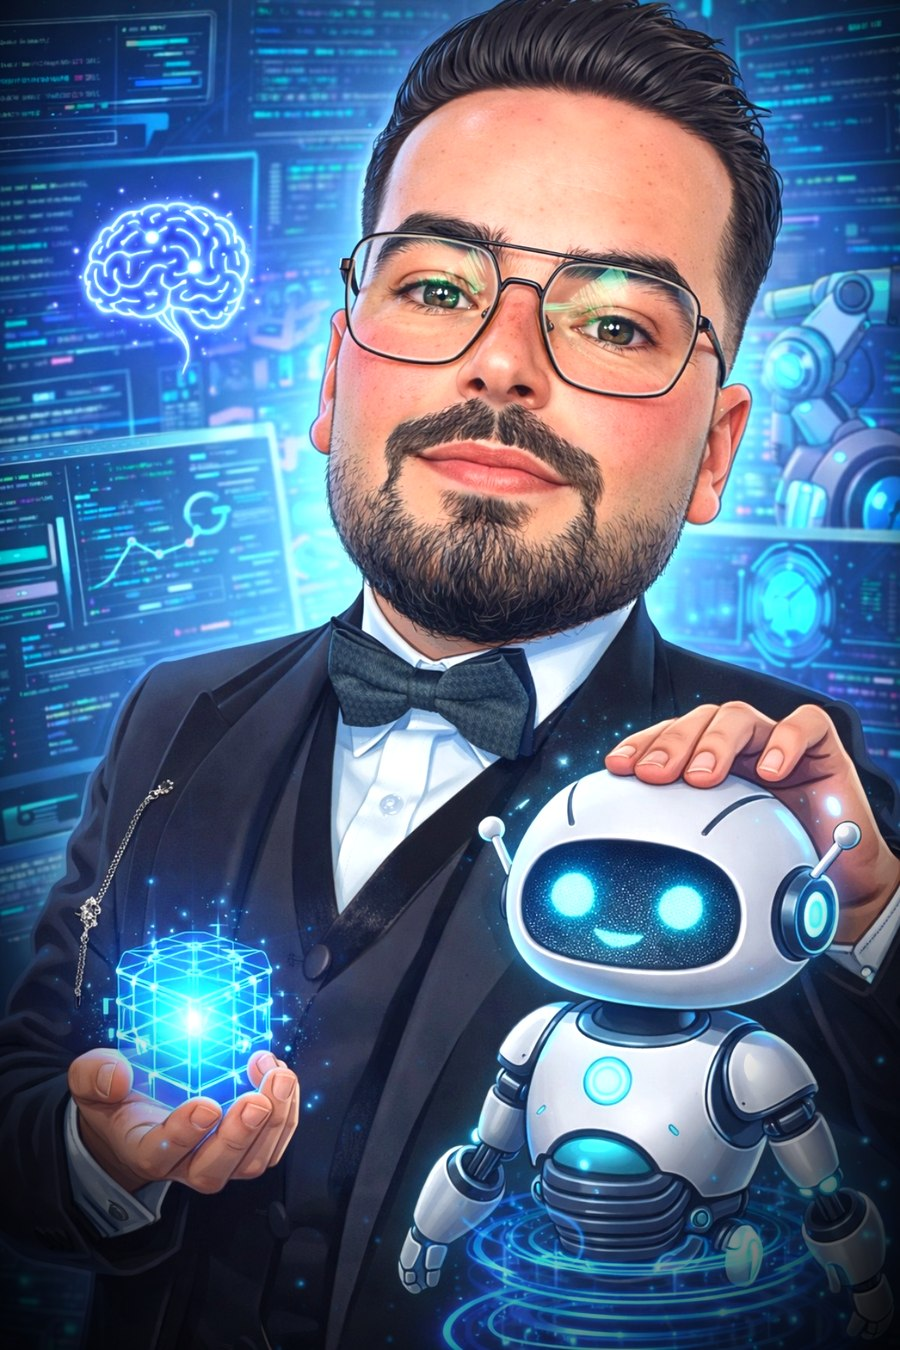
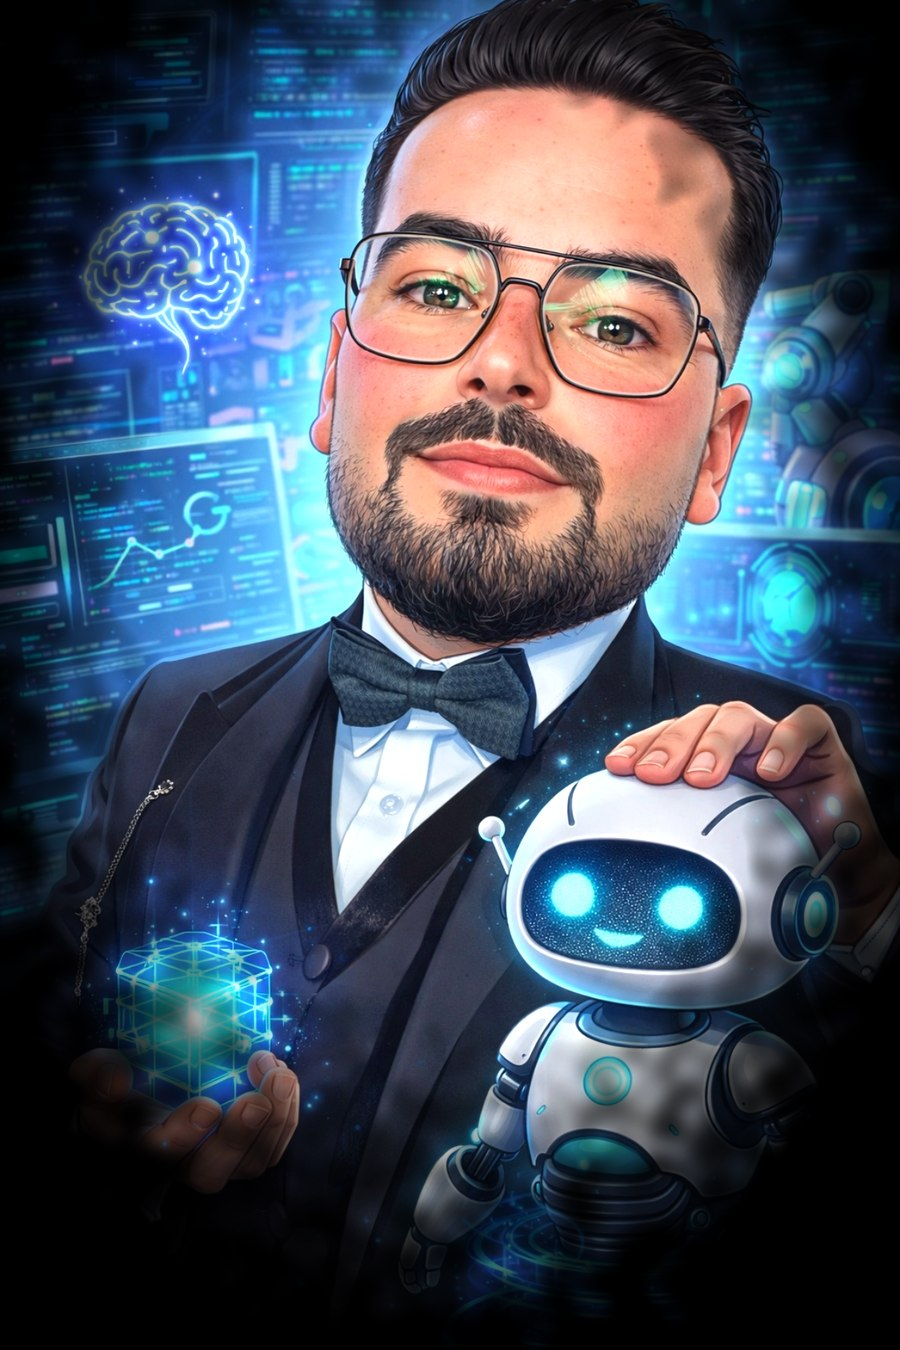
Dissolve particle portrait edges into the page background
Noise-eroded vignette in the avatar plus probabilistic particle
dropout and alpha falloff near the frame, so the hologram has no
visible rectangular boundary.

diff --git a/js/particles.js b/js/particles.js
@@ -57,16 +57,22 @@
     const data = octx.getImageData(0, 0, cols, rows).data;
 
     particles = [];
+    const pcx = ox + dw / 2, pcy = oy + dh * 0.44;
     for (let y = 0; y < rows; y++) {
       for (let x = 0; x < cols; x++) {
         const i = (y * cols + x) * 4;
         const r = data[i], g = data[i + 1], b = data[i + 2];
         const lum = 0.2126 * r + 0.7152 * g + 0.0722 * b;
-        if (lum < 14) continue; // skip near-black — lets the portrait float
+        if (lum < 16) continue; // skip near-black — lets the portrait float
         const hx = ox + x * GAP + GAP / 2;
         const hy = oy + y * GAP + GAP / 2;
+        // dissolve into the page: drop particles ever more often near the edges
+        const nd = Math.hypot((hx - pcx) / (dw * 0.55), (hy - pcy) / (dh * 0.58));
+        const edge = clamp((nd - 0.62) / 0.38, 0, 1);
+        if (Math.random() < edge * edge) continue;
         const ang = Math.random() * Math.PI * 2;
         particles.push({
+          fade: 1 - edge * 0.75,
           hx, hy,                                    // home
           sx: W / 2 + Math.cos(ang) * W * 1.1,       // spawn (off-canvas ring)
           sy: H / 2 + Math.sin(ang) * H * 1.1,
@@ -137,7 +143,7 @@
 
       // scanning shimmer wave
       const wave = 1 + 0.5 * Math.max(0, Math.sin(time * 1.6 - y * 0.018));
-      const alpha = (1 - scatter * 0.95) * (0.35 + 0.65 * a);
+      const alpha = (1 - scatter * 0.95) * (0.35 + 0.65 * a) * p.fade;
       if (alpha <= 0.02) continue;
 
       ctx.globalAlpha = alpha;
